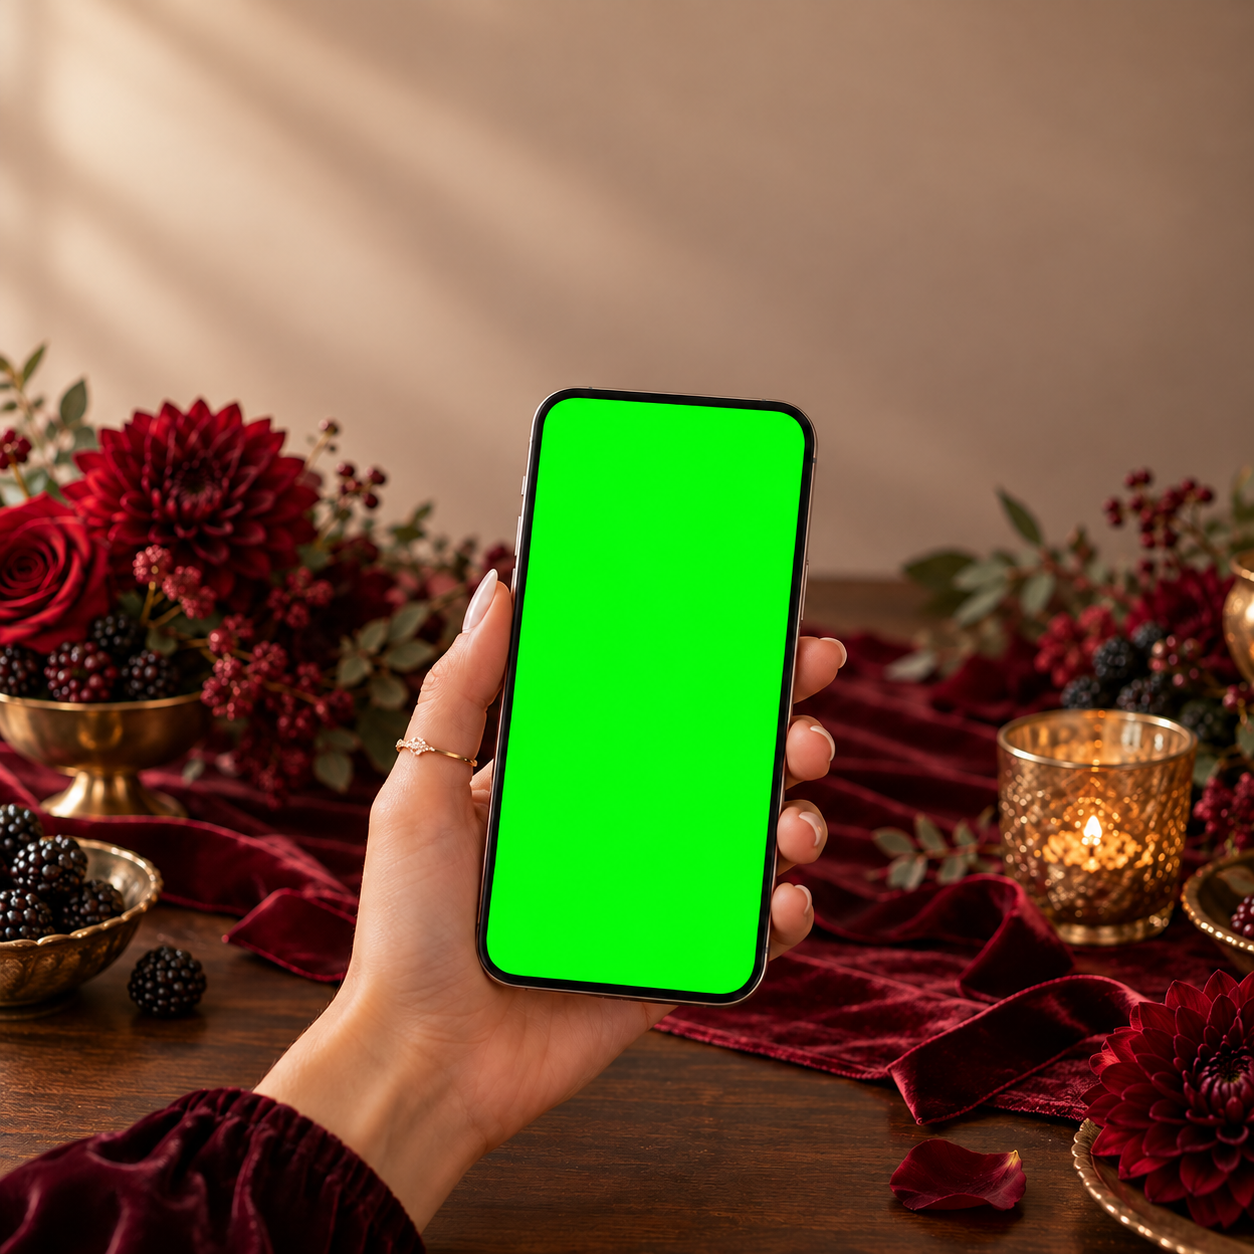
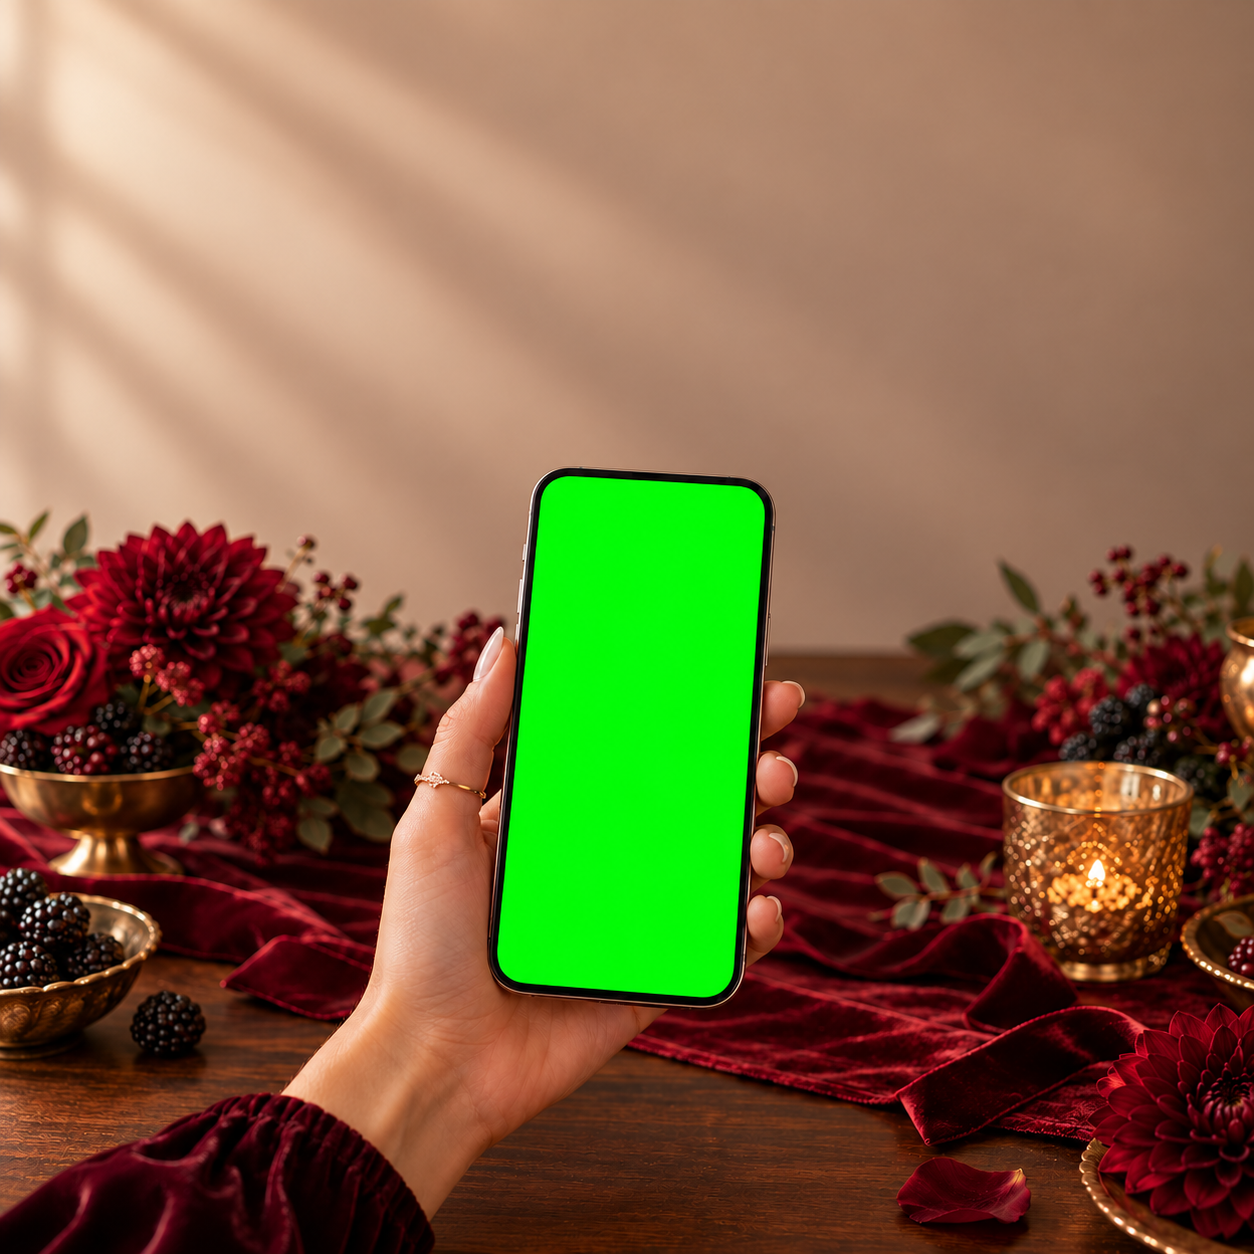
G807: görseller

diff --git a/gorevler/G807-mockup.md b/gorevler/G807-mockup.md
@@ -2,7 +2,7 @@
 id: G807
 baslik: Tasarım 07 Burgundy Velvet Autumn — Etsy ilan sahneleri (Paket 3: 5 fotoğraf gerçekliğinde sahne, ekranlar #00FF00)
 rol: gpt-gorsel
-durum: alindi
+durum: inceleme
 alan: gpt-gorsel-B
 oncelik: 2
 bagimli: []
@@ -27,13 +27,20 @@ Pilot: 01/03 (G801/G803).
 4. Ara kayıt: 3 sahnede bir commit + push. Kontrol: `python3 tools/kit_check.py collections/07_Burgundy_Velvet --paket 3`.
 
 ## Bitti sayılması için
-- [ ] 5 sahne doğru yolda; `kit_check --paket 3` 5/5 geçti
-- [ ] Sonuç'ta yeniden üretilenler ve emin olunmayan noktalar
+- [x] 5 sahne doğru yolda; `kit_check --paket 3` 5/5 geçti
+- [x] Sonuç'ta yeniden üretilenler ve emin olunmayan noktalar
 
 ## Sonuç
+- gpt-gorsel-B, 2026-10-14: PAKET 3 talimat bloğu ve 3.1–3.5 İngilizce promptları tek sohbette, sırayla ve değiştirilmeden kullanıldı; önceki sahneler ortak ceviz masa, bordo kadife, çiçek, altın aksesuar ve ışık için referans verildi.
+- `collections/07_Burgundy_Velvet/assets/gpt/mockups/` altında beş seçili sahne: `cover_hand.png`, `three_phones.png`, `laptop_phone.png`, `flatlay_phone.png`, `hand_phone_edit.png`. Kare kaynaklar 1254×1254, yatay kaynaklar 1536×1024; istenen 1:1 ve 3:2 oranları korundu.
+- Yeniden üretimler: `cover_hand_v2.png` ve `cover_hand_v3.png`, üst %30 başlık alanına yaklaşan çiçek/yaprakları aşağı almak için; son seçim v3. `laptop_phone_v2.png`, ilk üretimde oluşan klavye harf/işaretlerini kaldırmak için; son seçim v2. Seçimler sade dosya adlarına kopyalandı.
+- Görsel kontrol: sırasıyla 1/3/2/1/1 ekran; sekiz ekranın dört köşesi açık, parmak/çiçek/böğürtlen/kurdele ekrana binmiyor; seçili sahnelerde görünür yazı, harf, rakam, logo veya filigran yok. Kapakta üst alan, flat-lay'de sol üçte bir boş; yaşam sahnesinde yüz görünmüyor.
+- Kontrol: `python3 tools/kit_check.py collections/07_Burgundy_Velvet --paket 3` → **5/5 geçti**. Ara kayıt ilk üç sahneden sonra `G807: ara kayıt (3/5)` ile main'e push edildi. Ek önizleme, metrik veya rapor dosyası üretilmedi.
+- **İnceleme sınırlaması — saf renk şartı:** Imagegen'e ilk üretimlerde ve revizyonlarda saf RGB(0,255,0), opak, yansımasız ve dokusuz ekran istendi. Kaynak ekranlar opak ve görsel olarak düz olsa da salt okunur piksel kontrolü #00FF00 çevresinde renk sapmaları gösterdi; birebir saf #00FF00 şartı sağlanmadı. `kit_check` yakın yeşil tonları toleransla kabul eder; 5/5 sonucu piksel düzeyinde saf renk garantisi değildir. Bu sapma son montaj öncesi teknik renk normalizasyonu gerektirir; kaynaklara kodla boyama uygulanmadı.
 
 ## Günlük
-- 2026-10-14 alindi: gpt-gorsel-B
-- 2026-10-14 ara kayıt: gpt-gorsel-B — 3/5 sahne üretildi; cover_hand_v2 (üst başlık alanı) ve laptop_phone_v2 (yazısız klavye) seçilip sade adlara kopyalandı. İlk üç sahnenin ekran sayısı ve geometri kontrolü geçti.
 - 2026-10-13 blokaj: K22 (kullanıcı, 2026-10-13): videodan çıkıldı, ürün yalnız mobil öncelikli website. Yeni website standardı pilotla (G035) belirlenince yeniden tanımlanacak
 - 2026-10-14 yeniden tanımlandı: telefon/laptop mockup'ı yerine 5 ilan sahnesi (`tools/paket3_sahne.py`; pilot G801/G803)
+- 2026-10-14 alindi: gpt-gorsel-B
+- 2026-10-14 ara kayıt: gpt-gorsel-B — 3/5 sahne üretildi; cover_hand_v2 (üst başlık alanı) ve laptop_phone_v2 (yazısız klavye) seçilip sade adlara kopyalandı. İlk üç sahnenin ekran sayısı ve geometri kontrolü geçti.
+- 2026-10-14 bitti, incelemeye gönderildi: gpt-gorsel-B — 5/5 kit kontrolü geçti; kapak v3 seçildi, saf #00FF00 piksel sınırlaması Sonuç'a açıkça yazıldı.
